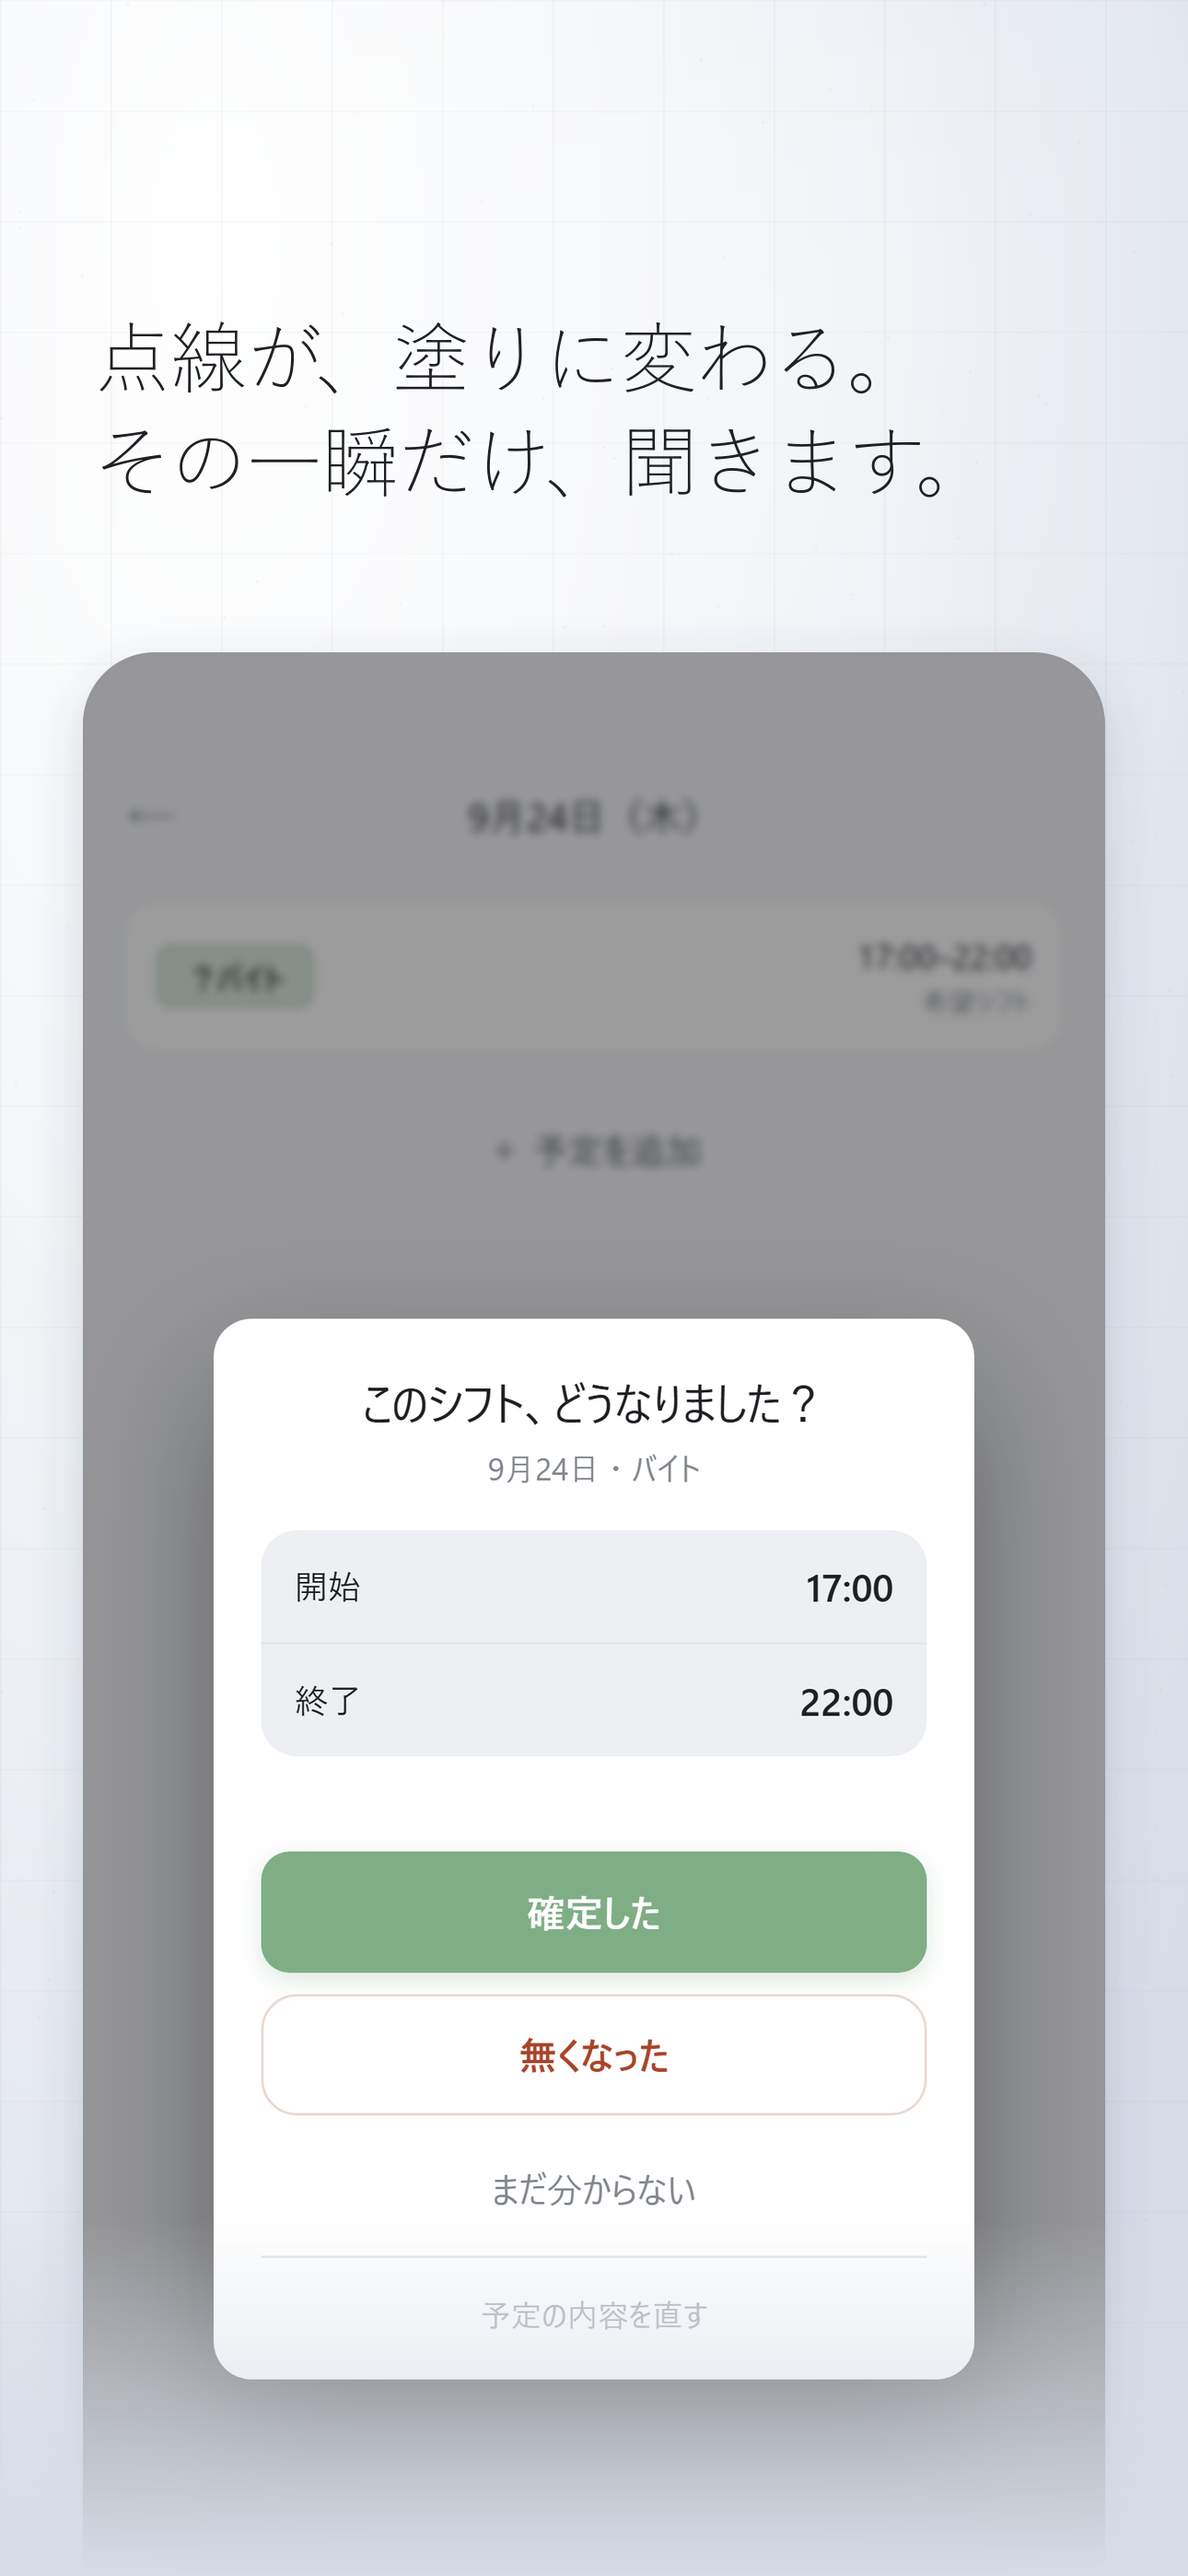
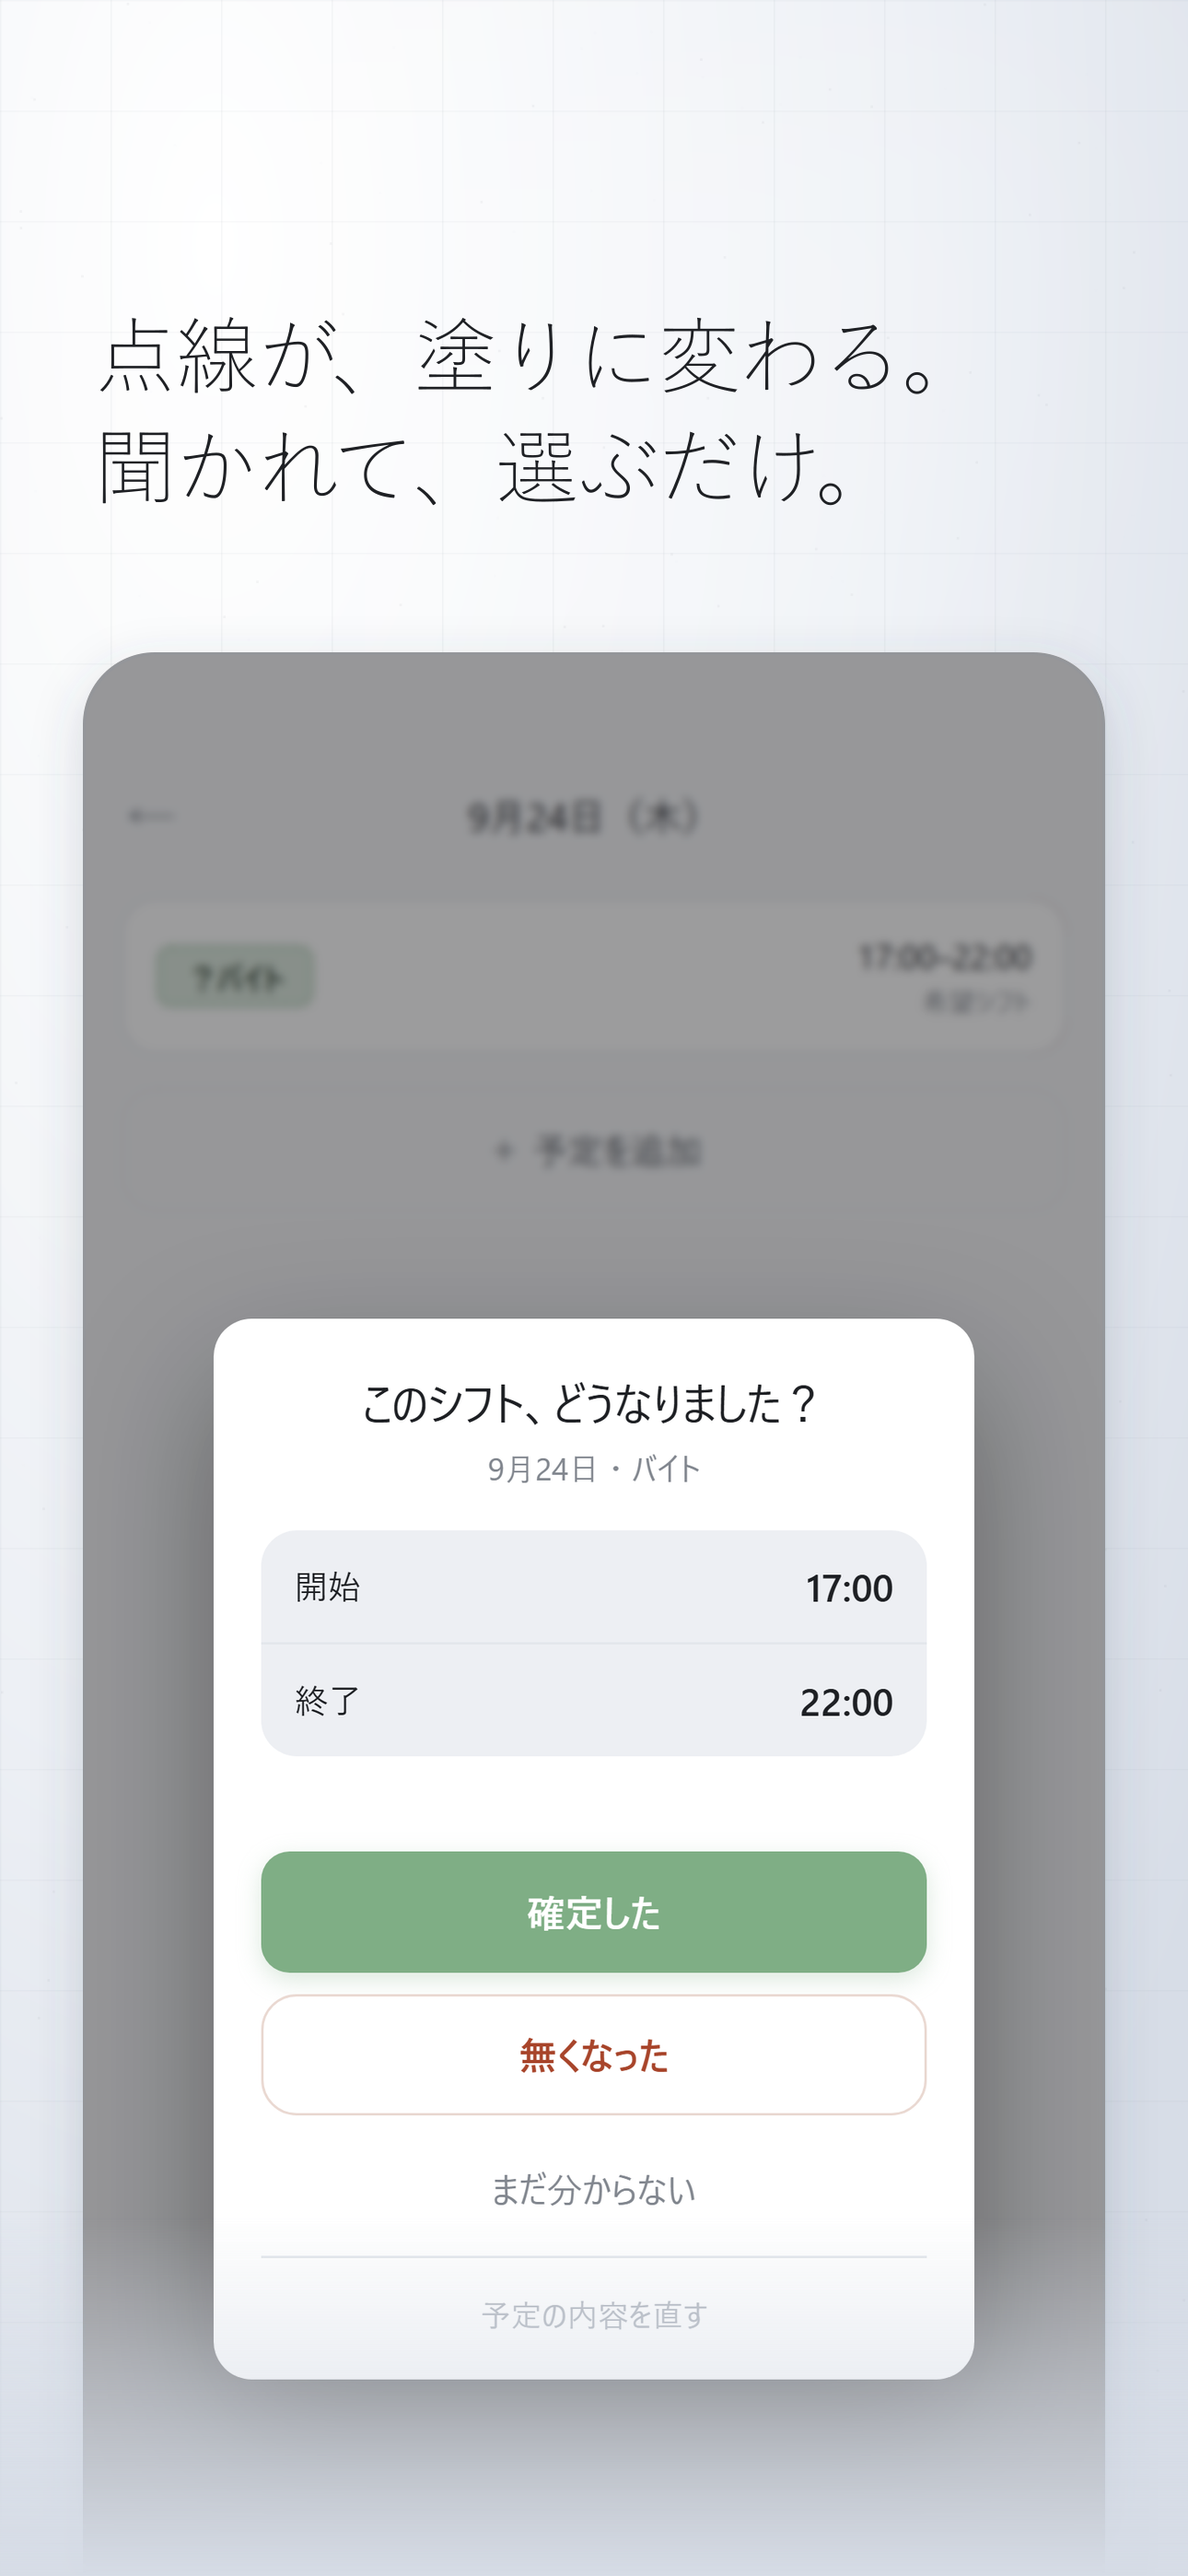
2枚目の2行目を「聞かれて、選ぶだけ。」にする
前の「その一瞬だけ、聞きます。」は、何を指しているかが曖昧だった。
アプリが聞くのは終わる時間であって一瞬ではないし、1行目が見た目の変化、
2行目が問いかけと、2行が別のことを指していた。

「聞かれて、選ぶだけ。」は画面に写っている3つのボタンと重なる分、
絵の説明に寄る。そのうえで、操作の軽さを言い切るほうを採った。

行が短くなったので、字の大きさを 28 → 30 にして3・4枚目と揃えた。

Changed region(s): [[0.093, 0.1245, 0.7442, 0.1867], [0.7442, 0.1556, 0.7752, 0.1867]]

diff --git a/store-assets/app-store-metadata.md b/store-assets/app-store-metadata.md
@@ -197,7 +197,7 @@ App Store に登録するのは、そこに見出しを載せた **`store-cards-
 | 順 | ファイル | 見出し | 画面 |
 |---|---|---|---|
 | 1 | `card-1.png` | 決まった予定と、まだの予定。 | 月表示 |
-| 2 | `card-2.png` | 点線が、塗りに変わる。その一瞬だけ、聞きます。 | 確認ダイアログ |
+| 2 | `card-2.png` | 点線が、塗りに変わる。聞かれて、選ぶだけ。 | 確認ダイアログ |
 | 3 | `card-3.png` | 給料は、見たいときだけ。 | 給料オン |
 | 4 | `card-4.png` | 予定から、空きを自動で出す。 | 空き状況 |
 | 5 | `card-5.png` | 「いつ空いてる？」に、画像1枚で答える。 | 空きシェア |
